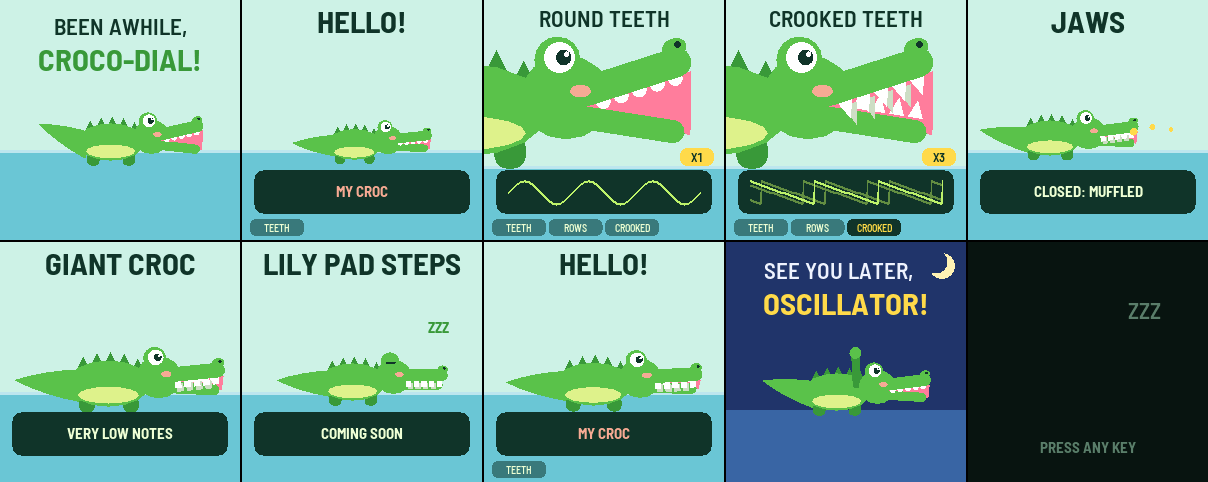
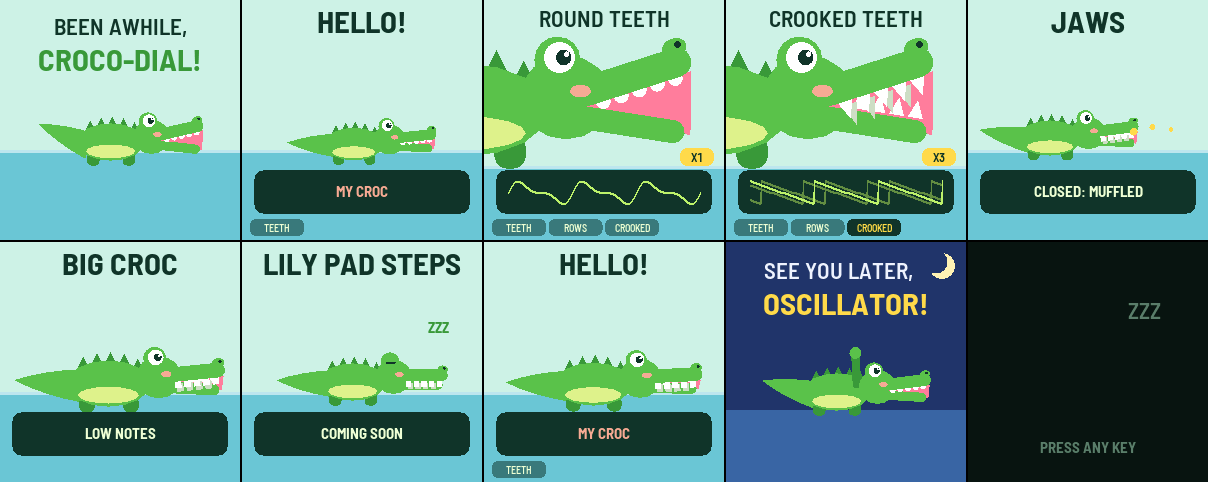
Three croc sizes, all inside the speaker's range: small, croc, big
The keys now sound one octave higher than their printed pitch; big croc is the old middle octave.
Same change in the prototype.

Claude-Session: https://claude.ai/code/session_011NSFKho7mAmL9DxP6fGWG7

diff --git a/prototype/index.html b/prototype/index.html
@@ -96,7 +96,7 @@ canvas{display:block;width:100%;aspect-ratio:1;border-radius:9px}
       <dt>LFO</dt><dd>Tail wag: speed, depth, and target (pitch or filter)</dd>
       <dt>FX</dt><dd>Swamp echo and cave: delay amount and time, reverb</dd>
       <dt>SEQ, PLAY</dt><dd>Lily pad steps: an eight-step sequencer</dd>
-      <dt>OCT</dt><dd>Baby or big croc: pitch by octave</dd>
+      <dt>OCT</dt><dd>Small croc, croc, big croc: three octaves, all inside the FM-1 speaker's range</dd>
       <dt>PRESETS</dt><dd>Surprise: five sounds plus her own, kept as My Croc</dd>
       <dt>ALGORITHM</dt><dd>Jaws: filter cutoff, on every page</dd>
       <dt>SELECT</dt><dd>Hop speed: tempo</dd>
@@ -118,10 +118,10 @@ function now(){return performance.now()/1000;}
 
 /* ---------- settings ---------- */
 var SOUND=['teeth','uni','twin','size','jaws','atk','dec','sus','rel','wag','wagSize','wagTo','echo','echoTime','cave'];
-var RANGE={teeth:[0,2],uni:[1,3],twin:[0,4],size:[-2,2],jaws:[0,12],atk:[0,10],dec:[0,10],sus:[0,10],rel:[0,10],wag:[0,8],wagSize:[0,4],wagTo:[0,1],echo:[0,6],echoTime:[0,4],cave:[0,6]};
+var RANGE={teeth:[0,2],uni:[1,3],twin:[0,4],size:[-1,1],jaws:[0,12],atk:[0,10],dec:[0,10],sus:[0,10],rel:[0,10],wag:[0,8],wagSize:[0,4],wagTo:[0,1],echo:[0,6],echoTime:[0,4],cave:[0,6]};
 var PRESETS=[
   ['BABY CROC',   [0,1,2,-1,9, 0,4,7,2, 0,2,0, 1,2,1]],
-  ['SWAMP BASS',  [2,2,1,2,4,  0,5,6,2, 0,2,0, 0,2,0]],
+  ['SWAMP BASS',  [2,2,1,1,4,  0,5,6,2, 0,2,0, 0,2,0]],
   ['CHOMPER',     [1,1,2,0,10, 0,2,2,1, 0,2,0, 2,1,0]],
   ['SLEEPY YAWN', [0,3,2,0,5,  8,5,8,8, 2,1,0, 3,3,4]],
   ['WIGGLE TAIL', [1,1,2,-1,7, 1,4,7,3, 6,3,1, 2,2,1]]
@@ -176,7 +176,7 @@ function initAudio(){
 }
 function resume(){ if(ac&&ac.state!=='running'){ try{ac.resume();}catch(e){} } }
 function EV(){ var a=P.atk/10; return {a:0.005+a*a*0.8, d:0.05+P.dec/10*0.8, s:P.sus/10, r:0.05+P.rel/10*1.5}; }
-function freq(m){return 440*Math.pow(2,(m-69)/12)*Math.pow(2,-P.size);}
+function freq(m){return 440*Math.pow(2,(m-69)/12)*Math.pow(2,1-P.size);}  /* small F5..G7, croc F4..G6, big F3..G5 */
 function level(){return LEVEL[P.teeth]*[1,0.72,0.58][P.uni-1];}
 function spread(j,n){ var d=TWIN[P.twin]; return n===1?0:n===2?(j?d/2:-d/2):(j-1)*d; }
 function applyParams(){
@@ -457,7 +457,7 @@ function drawPage(pg,ta){
   if(pg==='home'){
     scene(150);
     text(crocName?'HI, '+crocName+'!':'HELLO!',120,24,27,C.ink,216);
-    var sS=[0.5,0.62,0.74,0.86,0.98][P.size+2], sx=120+19*sS, sy=150-8*sS;
+    var sS=[0.55,0.75,0.98][P.size+1], sx=120+19*sS, sy=150-8*sS;
     var jawS=(0.12+0.88*P.jaws/12)*(0.25+0.75*envJaw(ta));
     g.strokeStyle='rgba(255,255,255,.7)'; g.lineWidth=2;
     for(i=0;i<P.echo;i++){ var q2=((ta*0.35)+i/Math.max(1,P.echo))%1; g.globalAlpha=1-q2; g.beginPath(); g.ellipse(sx-20*sS,160,20+q2*90,3+q2*9,0,0,Math.PI*2); g.stroke(); }
@@ -534,10 +534,10 @@ function drawPage(pg,ta){
   }
   else if(pg==='size'){
     scene(150); v=P.size;
-    text(['BABY CROC','LITTLE CROC','CROC','BIG CROC','GIANT CROC'][v+2],120,24,27,C.ink,216);
-    var s=[0.45,0.6,0.75,0.9,1.05][v+2];
+    text(['SMALL CROC','CROC','BIG CROC'][v+1],120,24,27,C.ink,216);
+    var s=[0.55,0.8,1.05][v+1];
     crocMid(150-8*s,s,{jaw:0.2,tail:Math.sin(ta*4)*0.2,teeth:P.teeth,rows:P.uni,crook:P.twin});
-    panel(); label(['VERY HIGH','HIGH','MIDDLE','LOW','VERY LOW'][v+2]+' NOTES');
+    panel(); label(['HIGH','MIDDLE','LOW'][v+1]+' NOTES');
   }
   else if(pg==='jaws'){
     scene(150); v=P.jaws;

diff --git a/app/app.c b/app/app.c
@@ -1,7 +1,7 @@
 /* SPDX-License-Identifier: LicenseRef-PolyForm-Noncommercial-1.0.0
  * Copyright 2026 goose */
 /* Croc-O-Synth: a crocodile teaches synth basics, one lesson a button. This first firmware has the start-up
- * greeting, the home croc that wears every setting, the Teeth lesson (EDIT), the jaws (ALGORITHM), big and baby croc
+ * greeting, the home croc that wears every setting, the Teeth lesson (EDIT), the jaws (ALGORITHM), small and big croc
  * (OCT), the goodbye (HOME held), and a placeholder for the lessons to come.
  * Part of the platform's unity build (base/device/unity.c, base/host/plat_host.c), after the platform: gfx.c and
  * announce.c are in scope. Written against the contract in app.h; see PROVENANCE.md for what came from where. */
@@ -35,7 +35,7 @@ static void sound_defaults(void)
 static int sound_ok(const sound_t *s)
 {
     return s->teeth >= 0 && s->teeth <= 2 && s->rows >= 1 && s->rows <= 3 && s->crook >= 0 && s->crook <= 4 &&
-           s->size >= -2 && s->size <= 2 && s->jaws >= 0 && s->jaws <= 12 && s->atk >= 0 && s->atk <= 10 &&
+           s->size >= -1 && s->size <= 1 && s->jaws >= 0 && s->jaws <= 12 && s->atk >= 0 && s->atk <= 10 &&
            s->dec >= 0 && s->dec <= 10 && s->sus >= 0 && s->sus <= 10 && s->rel >= 0 && s->rel <= 10;
 }
 
@@ -133,7 +133,7 @@ static void input(void)
             continue;
         ui.ov = OV_NONE;
         if (k == B_OCTDN || k == B_OCTUP) {  /* OCT- : a bigger croc, lower notes */
-            step(&snd.size, k == B_OCTDN ? 1 : -1, -2, 2);
+            step(&snd.size, k == B_OCTDN ? 1 : -1, -1, 1);
             overlay(OV_SIZE);
         } else if (k == B_HOME) {
             ui.page = PG_HOME;
@@ -221,7 +221,7 @@ static void croc_look(croc_t *c)             /* the croc as the sound has it */
 /* the whole picture; called once a band, with the canvas clipped to that band's rows */
 static void picture(float t)
 {
-    static const float SIZE_S[5] = {0.45f, 0.6f, 0.75f, 0.9f, 1.05f};
+    static const float SIZE_S[3] = {0.55f, 0.8f, 1.05f};
     croc_t c;
     m_reset();
     croc_look(&c);
@@ -259,16 +259,16 @@ static void picture(float t)
         return;
     }
     if (ui.ov == OV_SIZE) {
-        static const char *const NAME[5] = {"BABY CROC", "LITTLE CROC", "CROC", "BIG CROC", "GIANT CROC"};
-        static const char *const NOTES[5] = {"VERY HIGH NOTES", "HIGH NOTES", "MIDDLE NOTES", "LOW NOTES", "VERY LOW NOTES"};
-        float s = SIZE_S[snd.size + 2];
+        static const char *const NAME[3] = {"SMALL CROC", "CROC", "BIG CROC"};
+        static const char *const NOTES[3] = {"HIGH NOTES", "MIDDLE NOTES", "LOW NOTES"};
+        float s = SIZE_S[snd.size + 1];
         scene(150);
-        t_center(120, 8, NAME[snd.size + 2], K_INK, 224, 2);
+        t_center(120, 8, NAME[snd.size + 1], K_INK, 224, 2);
         c.jaw = 0.2f;
         c.tail = fm_sinf(t * 4.0f) * 0.2f;
         croc_mid(150.0f - 8.0f * s, s, &c);
         label_box();
-        t_center(120, 184, NOTES[snd.size + 2], K_CREAM, 200, 0);
+        t_center(120, 184, NOTES[snd.size + 1], K_CREAM, 200, 0);
         return;
     }
     if (ui.ov == OV_JAWS) {
@@ -292,7 +292,7 @@ static void picture(float t)
     }
     if (ui.page == PG_HOME) {
         static const char *const KN[4] = {"TEETH", 0, 0, 0};
-        float s = SIZE_S[snd.size + 2] * 0.93f;
+        float s = SIZE_S[snd.size + 1] * 0.93f;
         scene(150);
         t_center(120, 8, "HELLO!", K_INK, 224, 2);
         c.jaw = (0.12f + 0.88f * (float)snd.jaws / 12.0f) * (0.25f + 0.75f * env_jaw(t));

diff --git a/app/synth.c b/app/synth.c
@@ -12,7 +12,7 @@ typedef struct {
     int8_t teeth;                        /* 0 round (sine), 1 pointy (saw), 2 block (square) */
     int8_t rows;                         /* 1..3 oscillators */
     int8_t crook;                        /* 0..4: how far apart the rows are tuned */
-    int8_t size;                         /* -2..2: octaves down (a bigger croc sings lower) */
+    int8_t size;                         /* -1 small, 0 croc, 1 big: a bigger croc sings an octave lower */
     int8_t jaws;                         /* 0..12: the filter, closed to wide open */
     int8_t atk, dec, sus, rel;           /* 0..10 each: open, relax, hold, close */
 } sound_t;
@@ -177,7 +177,9 @@ void app_render(int32_t *lr, uint32_t n, uint32_t master_q12)
             stage = 3;
         if (!stage)
             continue;
-        base = 440.0f * fm_exp2f((float)(vc->note - 69) / 12.0f - (float)s.size) / SRATE;
+        /* the keys are F3..G5; the croc sings one octave above that, so every size stays in the speaker's range:
+         * small F5..G7, croc F4..G6, big F3..G5 */
+        base = 440.0f * fm_exp2f((float)(vc->note - 69) / 12.0f + 1.0f - (float)s.size) / SRATE;
         bend = fm_clampf(0.14f * fm_powf(350.0f / (base * SRATE), 0.75f), 0.14f, 0.6f);   /* lower notes, more harmonics */
         for (j = 0; j < NROW; j++) {
             float cents;

diff --git a/README.md b/README.md
@@ -5,7 +5,7 @@ A kid-friendly firmware idea for the M-VAVE FM-1 pocket synth: a crocodile teach
 This repository holds two things:
 
 - **`prototype/index.html`**: a click-through mock of the FM-1 panel in a browser, with a stand-in sound engine. This is where the lessons are designed.
-- **`app/`**: the real firmware, in C, built on [fm1-base](https://github.com/charlesvestal/fm1-base). It is early: the start-up greeting, the home croc, the Teeth lesson, the jaws, big and baby croc, and the goodbye. It runs in fm1-base's simulator and builds for the FM-1. **It has not been run on a real FM-1 yet.**
+- **`app/`**: the real firmware, in C, built on [fm1-base](https://github.com/charlesvestal/fm1-base). It is early: the start-up greeting, the home croc, the Teeth lesson, the jaws, small and big croc, and the goodbye. It runs in fm1-base's simulator and builds for the FM-1. **It has not been run on a real FM-1 yet.**
 
 ![The first firmware screens, from the simulator](docs/img/firmware-first-screens.png)
 
@@ -26,7 +26,7 @@ Open `prototype/index.html` in a browser. Tap the screen to wake the croc.
 | LFO | Tail wag | LFO speed, depth, target (pitch or filter) |
 | FX | Swamp echo and cave | Delay amount and time, reverb |
 | SEQ + PLAY | Lily pad steps | Eight-step sequencer |
-| OCT- / OCT+ | Baby or big croc | Octave |
+| OCT- / OCT+ | Small croc, croc, big croc | Octave: three of them, all inside the speaker's range |
 | PRESETS knob | Surprise | Five sounds plus her own, kept as My Croc |
 | ALGORITHM knob | Jaws | Filter cutoff |
 | SELECT knob | Hop speed | Tempo |

diff --git a/PROVENANCE.md b/PROVENANCE.md
@@ -50,7 +50,7 @@ These are places where our design does the same job with the same control as Fel
 | SEQ | Sequencer: steps, pattern | Lily pad steps | Same area, our own design |
 | Note keys on the SEQ page | Enter notes into steps | Plant a note on the ringed lily pad | Same idea |
 | PLAY | Start and stop | Start and stop the croc hopping | Same |
-| OCT- / OCT+ | Octave down and up | Big croc and baby croc (octave) | Same job, renamed |
+| OCT- / OCT+ | Octave down and up | Big croc and small croc (octave, three steps) | Same job, renamed |
 | HOME | Home screen; hold for menu | Home croc; hold for goodbye | Press same, hold different |
 | GLO | Mixer, global, system; hold for mutes | Grown-ups; hold to name the croc | Similar press, hold different |
 | SCL, ARP, REC, SAVE | Scale, arpeggiator, record, save | Planned: Safe swamp, Croc hops, Croc remembers, Save | Planned, same areas |
@@ -64,7 +64,7 @@ These are standard synthesizer concepts, not anything taken from a particular fi
 | Oscillator wave shape (sine, saw, square) | Teeth: round, pointy, block |
 | Unison voices x1, x2, x3 | Rows of teeth |
 | Detune between unison voices | Crooked |
-| Octave | Baby croc to giant croc |
+| Octave | Small croc, croc, big croc |
 | Low-pass filter cutoff | Jaws |
 | Attack | Open |
 | Decay | Relax |
